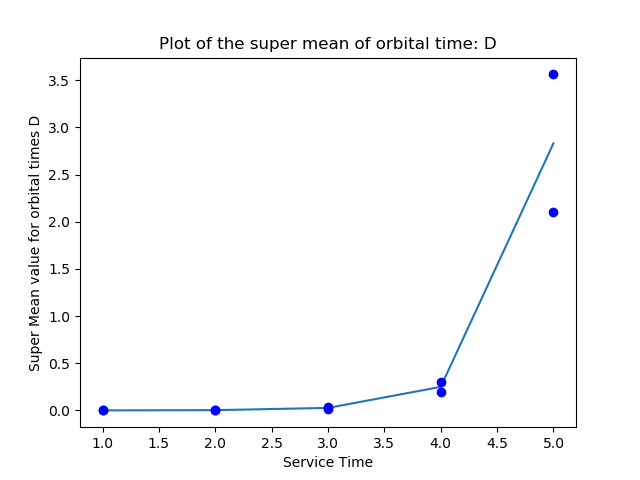
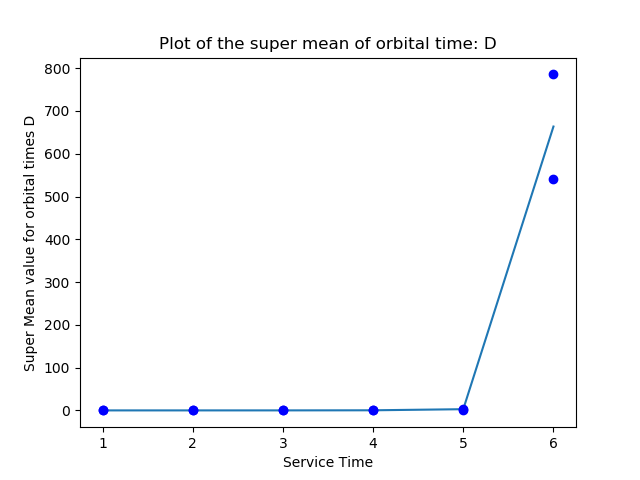
update readme

diff --git a/README.md b/README.md
@@ -109,4 +109,10 @@ The system takes the following inputs :
 6.) end simulation time / or the number of new requests for which we can run simulation.                 
 ```
 
-![This is the first graph where we can see that the new arrival time increases exponentially and the confidence interval also increases as we increase the Service complete time](https://github.ncsu.edu/ovbarve/IOT_project_01/blob/master/graphs/plot_of_T.png)
+
+This is the first graph where we can see that the new arrival time increases exponentially and the confidence interval also increases as we increase the Service complete time
+![Figure 1](https://github.ncsu.edu/ovbarve/IOT_project_01/blob/master/graphs/plot_of_T.png)
+
+
+Also if we increase the buffer size the mean orbittal time time goes exponentially down and with that the confidence interval size decreases.
+![Figure 2](https://github.ncsu.edu/ovbarve/IOT_project_01/blob/master/graphs/plot_of_D_buffer.png)
